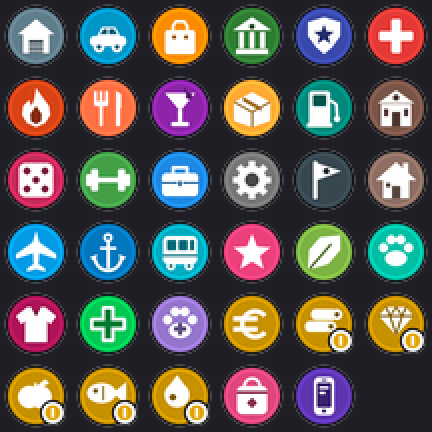
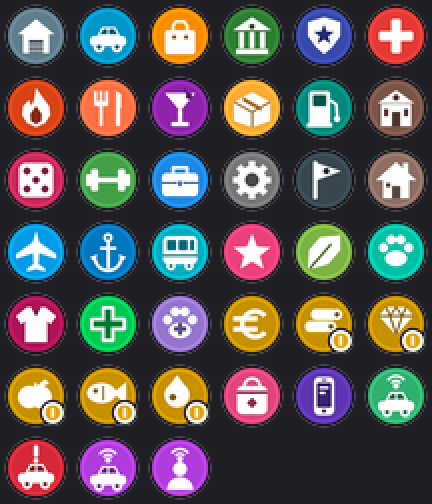
Carte : icones de suivi (GPS, vole, balise) et glissement fluide des reperes serveur qui bougent

diff --git a/src/main/java/fr/minenorth/map/client/TempWaypoints.java b/src/main/java/fr/minenorth/map/client/TempWaypoints.java
@@ -20,6 +20,20 @@ public final class TempWaypoints {
     private static int counter;
     /** Repères poussés par le serveur (autre mod, ex. secours) : ni limite, ni expiration, remplacés par nom. */
     private static final List<Waypoint> external = new ArrayList<>();
+    /** Glissement des repères serveur qui bougent (véhicule suivi, balise) : de l'ancienne position vers la nouvelle en {@value #GLIDE_MS} ms. */
+    private record Glide(double fx, double fy, double fz, long start) {}
+    private static final java.util.Map<String, Glide> glides = new java.util.HashMap<>();
+    private static final long GLIDE_MS = 1100;
+
+    /** Position affichée d'un repère serveur : interpolée tant que le glissement n'est pas fini (pas de saut sur la carte). */
+    private static Waypoint shown(Waypoint w) {
+        Glide gl = glides.get(w.name());
+        if (gl == null) return w;
+        double t = (System.currentTimeMillis() - gl.start()) / (double) GLIDE_MS;
+        if (t >= 1) { glides.remove(w.name()); return w; }
+        return w.withPos(w.dimension(), (int) Math.round(gl.fx() + (w.x() - gl.fx()) * t), (int) Math.round(gl.fy() + (w.y() - gl.fy()) * t),
+                (int) Math.round(gl.fz() + (w.z() - gl.fz()) * t));
+    }
 
     private TempWaypoints() {}
 
@@ -35,6 +49,7 @@ public final class TempWaypoints {
         if (ClientWaypoints.isTracked(w)) ClientWaypoints.track(null);
         entries.removeIf(e -> e.wp.name().equals(w.name()));
         external.removeIf(e -> e.name().equals(w.name()));
+        glides.remove(w.name());
     }
 
     public static boolean isTemp(Waypoint w) {
@@ -46,33 +61,42 @@ public final class TempWaypoints {
     public static List<Waypoint> all() {
         List<Waypoint> out = new ArrayList<>(entries.size() + external.size());
         for (Entry e : entries) out.add(e.wp);
-        out.addAll(external);
+        for (Waypoint e : external) out.add(shown(e));
         return Collections.unmodifiableList(out);
     }
 
     public static List<Waypoint> inDimension(String dim) {
         List<Waypoint> out = new ArrayList<>();
         for (Entry e : entries) if (e.wp.dimension().equals(dim)) out.add(e.wp);
-        for (Waypoint e : external) if (e.dimension().equals(dim)) out.add(e);
+        for (Waypoint e : external) if (e.dimension().equals(dim)) out.add(shown(e));
         return out;
     }
 
     public static Waypoint byName(String name) {
         for (Entry e : entries) if (e.wp.name().equalsIgnoreCase(name)) return e.wp;
-        for (Waypoint e : external) if (e.name().equalsIgnoreCase(name)) return e;
+        for (Waypoint e : external) if (e.name().equalsIgnoreCase(name)) return shown(e);
         return null;
     }
 
     /** Ajoute / remplace un repère venu du serveur ; guide = lance le guidage dessus. */
     public static void setExternal(Waypoint w, boolean guide) {
+        Waypoint old = null;
+        for (Waypoint e : external) if (e.name().equals(w.name())) old = e;
+        if (old != null && old.dimension().equals(w.dimension())) {
+            Waypoint from = shown(old);   // repart de là où il est affiché : pas d'à-coup si la mise à jour arrive en plein glissement
+            double d = Math.abs(from.x() - w.x()) + Math.abs(from.z() - w.z());
+            if (d > 0 && d < 400) glides.put(w.name(), new Glide(from.x(), from.y(), from.z(), System.currentTimeMillis()));
+            else glides.remove(w.name());
+        } else glides.remove(w.name());
         external.removeIf(e -> e.name().equals(w.name()));
         external.add(w);
         if (guide) ClientWaypoints.track(w);
     }
 
     public static void removeExternal(String name) {
-        Waypoint w = byName(name);
-        if (w != null && external.contains(w)) remove(w);
+        Waypoint w = null;
+        for (Waypoint e : external) if (e.name().equalsIgnoreCase(name)) w = e;
+        if (w != null) remove(w);
     }
 
     /** Retire tous les repères serveur dont le nom commence par ce préfixe ("" = tous). */
@@ -91,5 +115,6 @@ public final class TempWaypoints {
     public static void clear() {
         external.clear();
         entries.clear();
+        glides.clear();
     }
 }

diff --git a/tools/gen_map_icons.py b/tools/gen_map_icons.py
@@ -162,6 +162,24 @@ def telephone(c):
     c.rect(14.6, 7.6, 17.4, 8.4, c.cut, r=0.4); c.circ(16, 23.5, 0.9, c.cut)
     c.rect(13.6, 11.2, 18.4, 12.4, WHITE, r=0.5); c.rect(13.6, 13.8, 16.6, 15, WHITE, r=0.5)
 
+# Suivi de véhicules (mod Vol) : voiture GPS (verte), voiture volée (rouge), balise espion sur véhicule ou sur joueur (violette, ondes)
+def _car(c, y=0.0):
+    c.rect(7, 17 + y, 25, 22 + y, r=2); c.poly([(10.5, 17 + y), (13, 12.5 + y), (19.5, 12.5 + y), (22, 17 + y)])
+    c.poly([(12.2, 16 + y), (13.8, 13.5 + y), (15.6, 13.5 + y), (15.6, 16 + y)], c.cut); c.poly([(16.6, 16 + y), (16.6, 13.5 + y), (19, 13.5 + y), (20.4, 16 + y)], c.cut)
+    for x in (11.5, 20.5): c.circ(x, 22.5 + y, 2.5, WHITE); c.circ(x, 22.5 + y, 1, c.cut)
+def _waves(c, cx, cy):
+    for r in (3.2, 5.6):
+        c.d.arc([u(cx - r), u(cy - r), u(cx + r), u(cy + r)], 215, 325, fill=WHITE, width=int(u(1.3)))
+    c.circ(cx, cy, 1.4)
+def vehicule_gps(c):
+    _car(c, 1.5); _waves(c, 16, 11)
+def vehicule_vole(c):
+    _car(c, 1.5); c.rect(14.9, 4.5, 17.1, 10.5, r=1); c.circ(16, 12.3, 1.2)
+def balise(c):
+    _car(c, 2.5); _waves(c, 16, 12)
+def balise_joueur(c):
+    c.circ(16, 16.5, 3.4); c.d.pieslice([u(9.5), u(20.5), u(22.5), u(33)], 180, 360, fill=WHITE); _waves(c, 16, 11.5)
+
 # id -> (couleur, dessin)
 ICONS = {
     "garage": ((96, 125, 139), garage), "concession": ((0, 150, 199), concession), "boutique": ((251, 140, 0), boutique),
@@ -178,6 +196,8 @@ ICONS = {
     "rachat_recolte": ((199, 145, 0), rachat_recolte), "rachat_poisson": ((199, 145, 0), rachat_poisson),
     "rachat_petrole": ((199, 145, 0), rachat_petrole),
     "boutiques": ((224, 69, 123), boutiques), "telephone": ((94, 53, 177), telephone),
+    "vehicule_gps": ((48, 176, 112), vehicule_gps), "vehicule_vole": ((214, 40, 56), vehicule_vole),
+    "balise": ((176, 60, 220), balise), "balise_joueur": ((176, 60, 220), balise_joueur),
 }
 
 def make(col, fn):

diff --git a/src/main/java/fr/minenorth/map/waypoint/MapIcons.java b/src/main/java/fr/minenorth/map/waypoint/MapIcons.java
@@ -48,6 +48,11 @@ public final class MapIcons {
         add("pharmacie", "Pharmacie", 0x00C853);
         add("veterinaire", "Vétérinaire", 0x9575CD);
         add("telephone", "Téléphonie", 0x5E35B1);
+        // suivi de véhicules (mod Vol, repères poussés par le serveur) : traceur GPS du propriétaire, véhicule volé, balise espion
+        add("vehicule_gps", "Véhicule suivi (GPS)", 0x30B070);
+        add("vehicule_vole", "Véhicule volé", 0xD62838);
+        add("balise", "Balise sur véhicule", 0xB03CDC);
+        add("balise_joueur", "Balise sur personne", 0xB03CDC);
         // magasins de l'annuaire « Boutiques » du téléphone (anciens points automatiques ; à poser à la main) : même sac framboise que l'application
         add("boutiques", "Magasins (annuaire)", 0xE0457B);
         // acheteurs de ressources : même couleur dorée, une seule case dans les filtres (voir filterKey)

diff --git a/README.md b/README.md
@@ -66,7 +66,7 @@ Les mêmes droits que les commandes sont revérifiés côté serveur ; les comma
 Points stockés dans `world/data/minenorth_map_waypoints.dat`, synchronisés en direct à tous les joueurs.
 
 ## Icônes de catégorie (comme sur la carte d'Altis Life)
-Les points ont une **icône** (pastille ronde colorée + pictogramme) au lieu du simple carré : garage, concession, boutique, banque/ATM, police, hôpital, pompiers/secours, restaurant, bar/club, livraison, station-service, mairie, casino, salle de sport, entreprise, atelier, gang/territoire, maison, aéroport, port, transport, loisir, récolte, animalerie, vêtements, pharmacie, vétérinaire.
+Les points ont une **icône** (pastille ronde colorée + pictogramme) au lieu du simple carré : garage, concession, boutique, banque/ATM, police, hôpital, pompiers/secours, restaurant, bar/club, livraison, station-service, mairie, casino, salle de sport, entreprise, atelier, gang/territoire, maison, aéroport, port, transport, loisir, récolte, animalerie, vêtements, pharmacie, vétérinaire ; suivi de véhicules (mod Vol) : véhicule suivi GPS, véhicule volé, balise sur véhicule, balise sur personne. Les repères poussés par le serveur qui se déplacent glissent en douceur (~1 s) d'une position à la suivante.
 - **Acheteurs de ressources** : une même pastille **dorée** avec une petite pièce en bas à droite ; le pictogramme dit ce qui est racheté : bois (`rachat_bois`), minerais (`rachat_minerai`), récoltes/fruits (`rachat_recolte`), poisson (`rachat_poisson`), pétrole (`rachat_petrole`), ou `rachat` (symbole €) pour un acheteur général. Devinée d'après le nom : un nom avec « acheteur / rachat / revente / reprise / recyclage » donne une icône d'acheteur, précisée par la ressource (« Rachat de bois » → bois, « Acheteur de minerais » → minerais). Une seule case « Acheteurs » dans les filtres pour toute la famille.
 - **Choix** : dans l'écran d'édition d'un point (mode Édition de la carte pour les OP, ou clic droit pour un point perso), grille d'icônes cliquable ; la 1re case (∅) = automatique.
 - **Automatique** : sans choix explicite, l'icône vient du type du point (commerce → boutique, secours → pompiers, logement → maison…) et, pour les types entreprise / commerce / loisir, du nom (« Pizzeria Chez Marco » → restaurant). Le type « autre » et les anciens points sans type gardent leur petit carré coloré.
